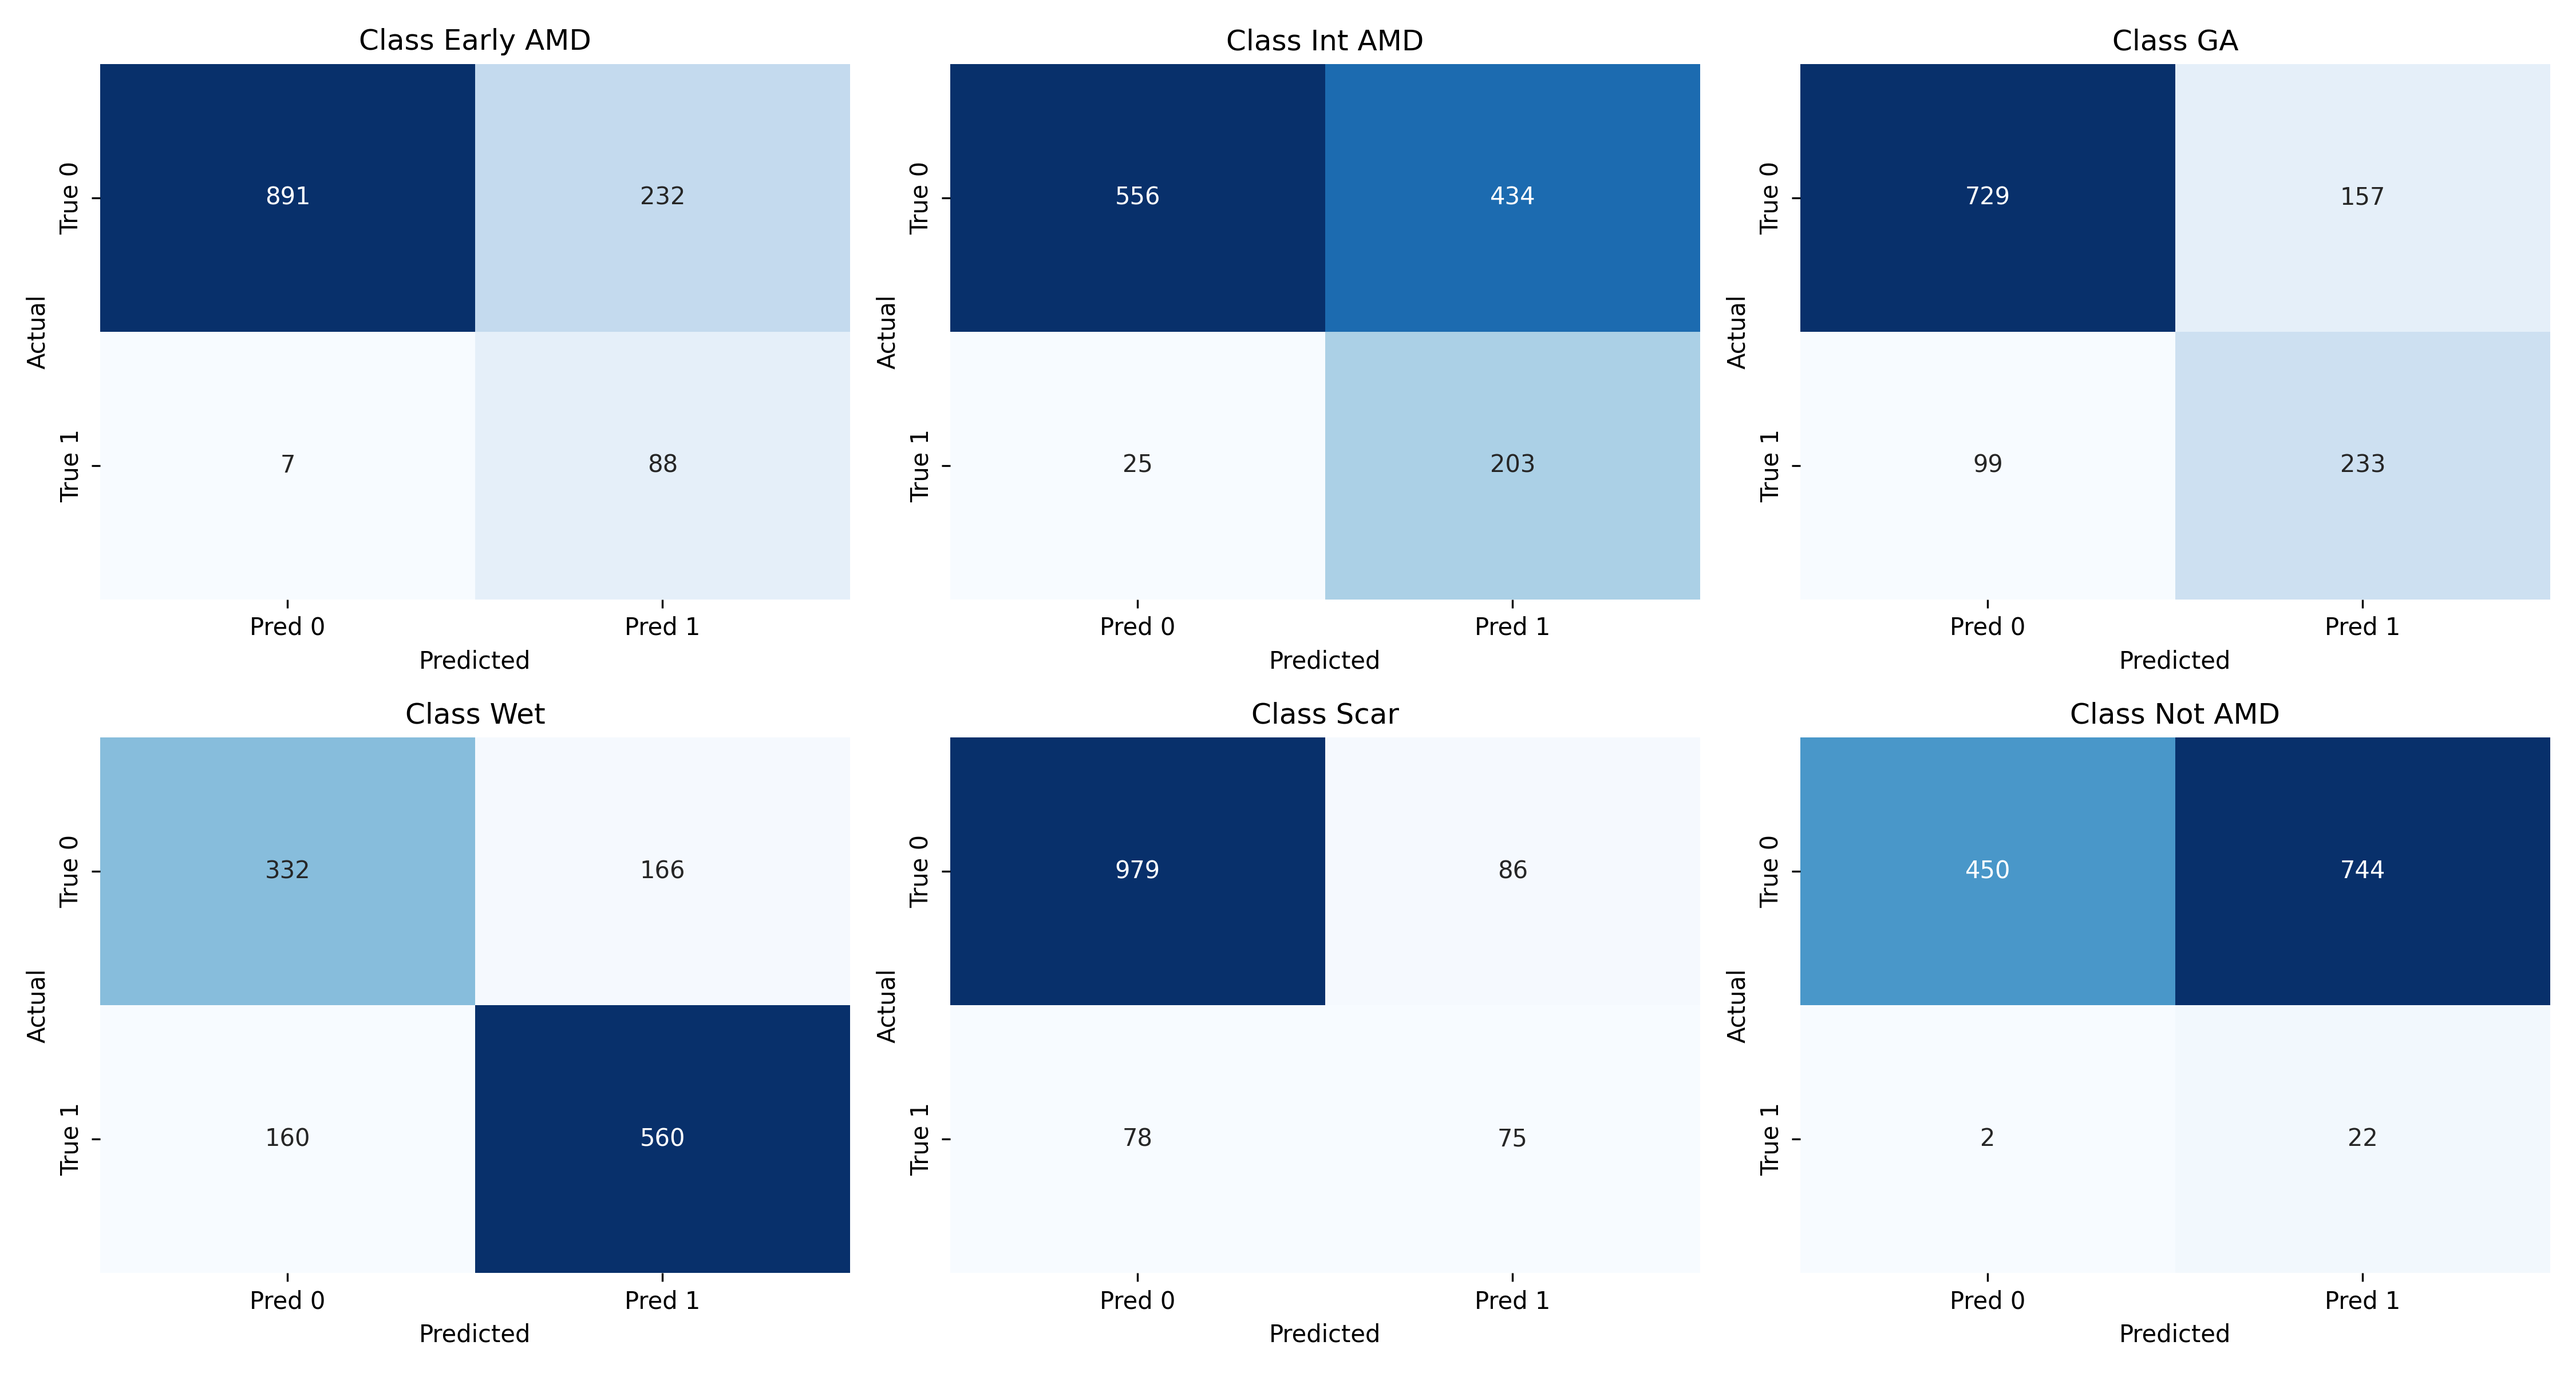
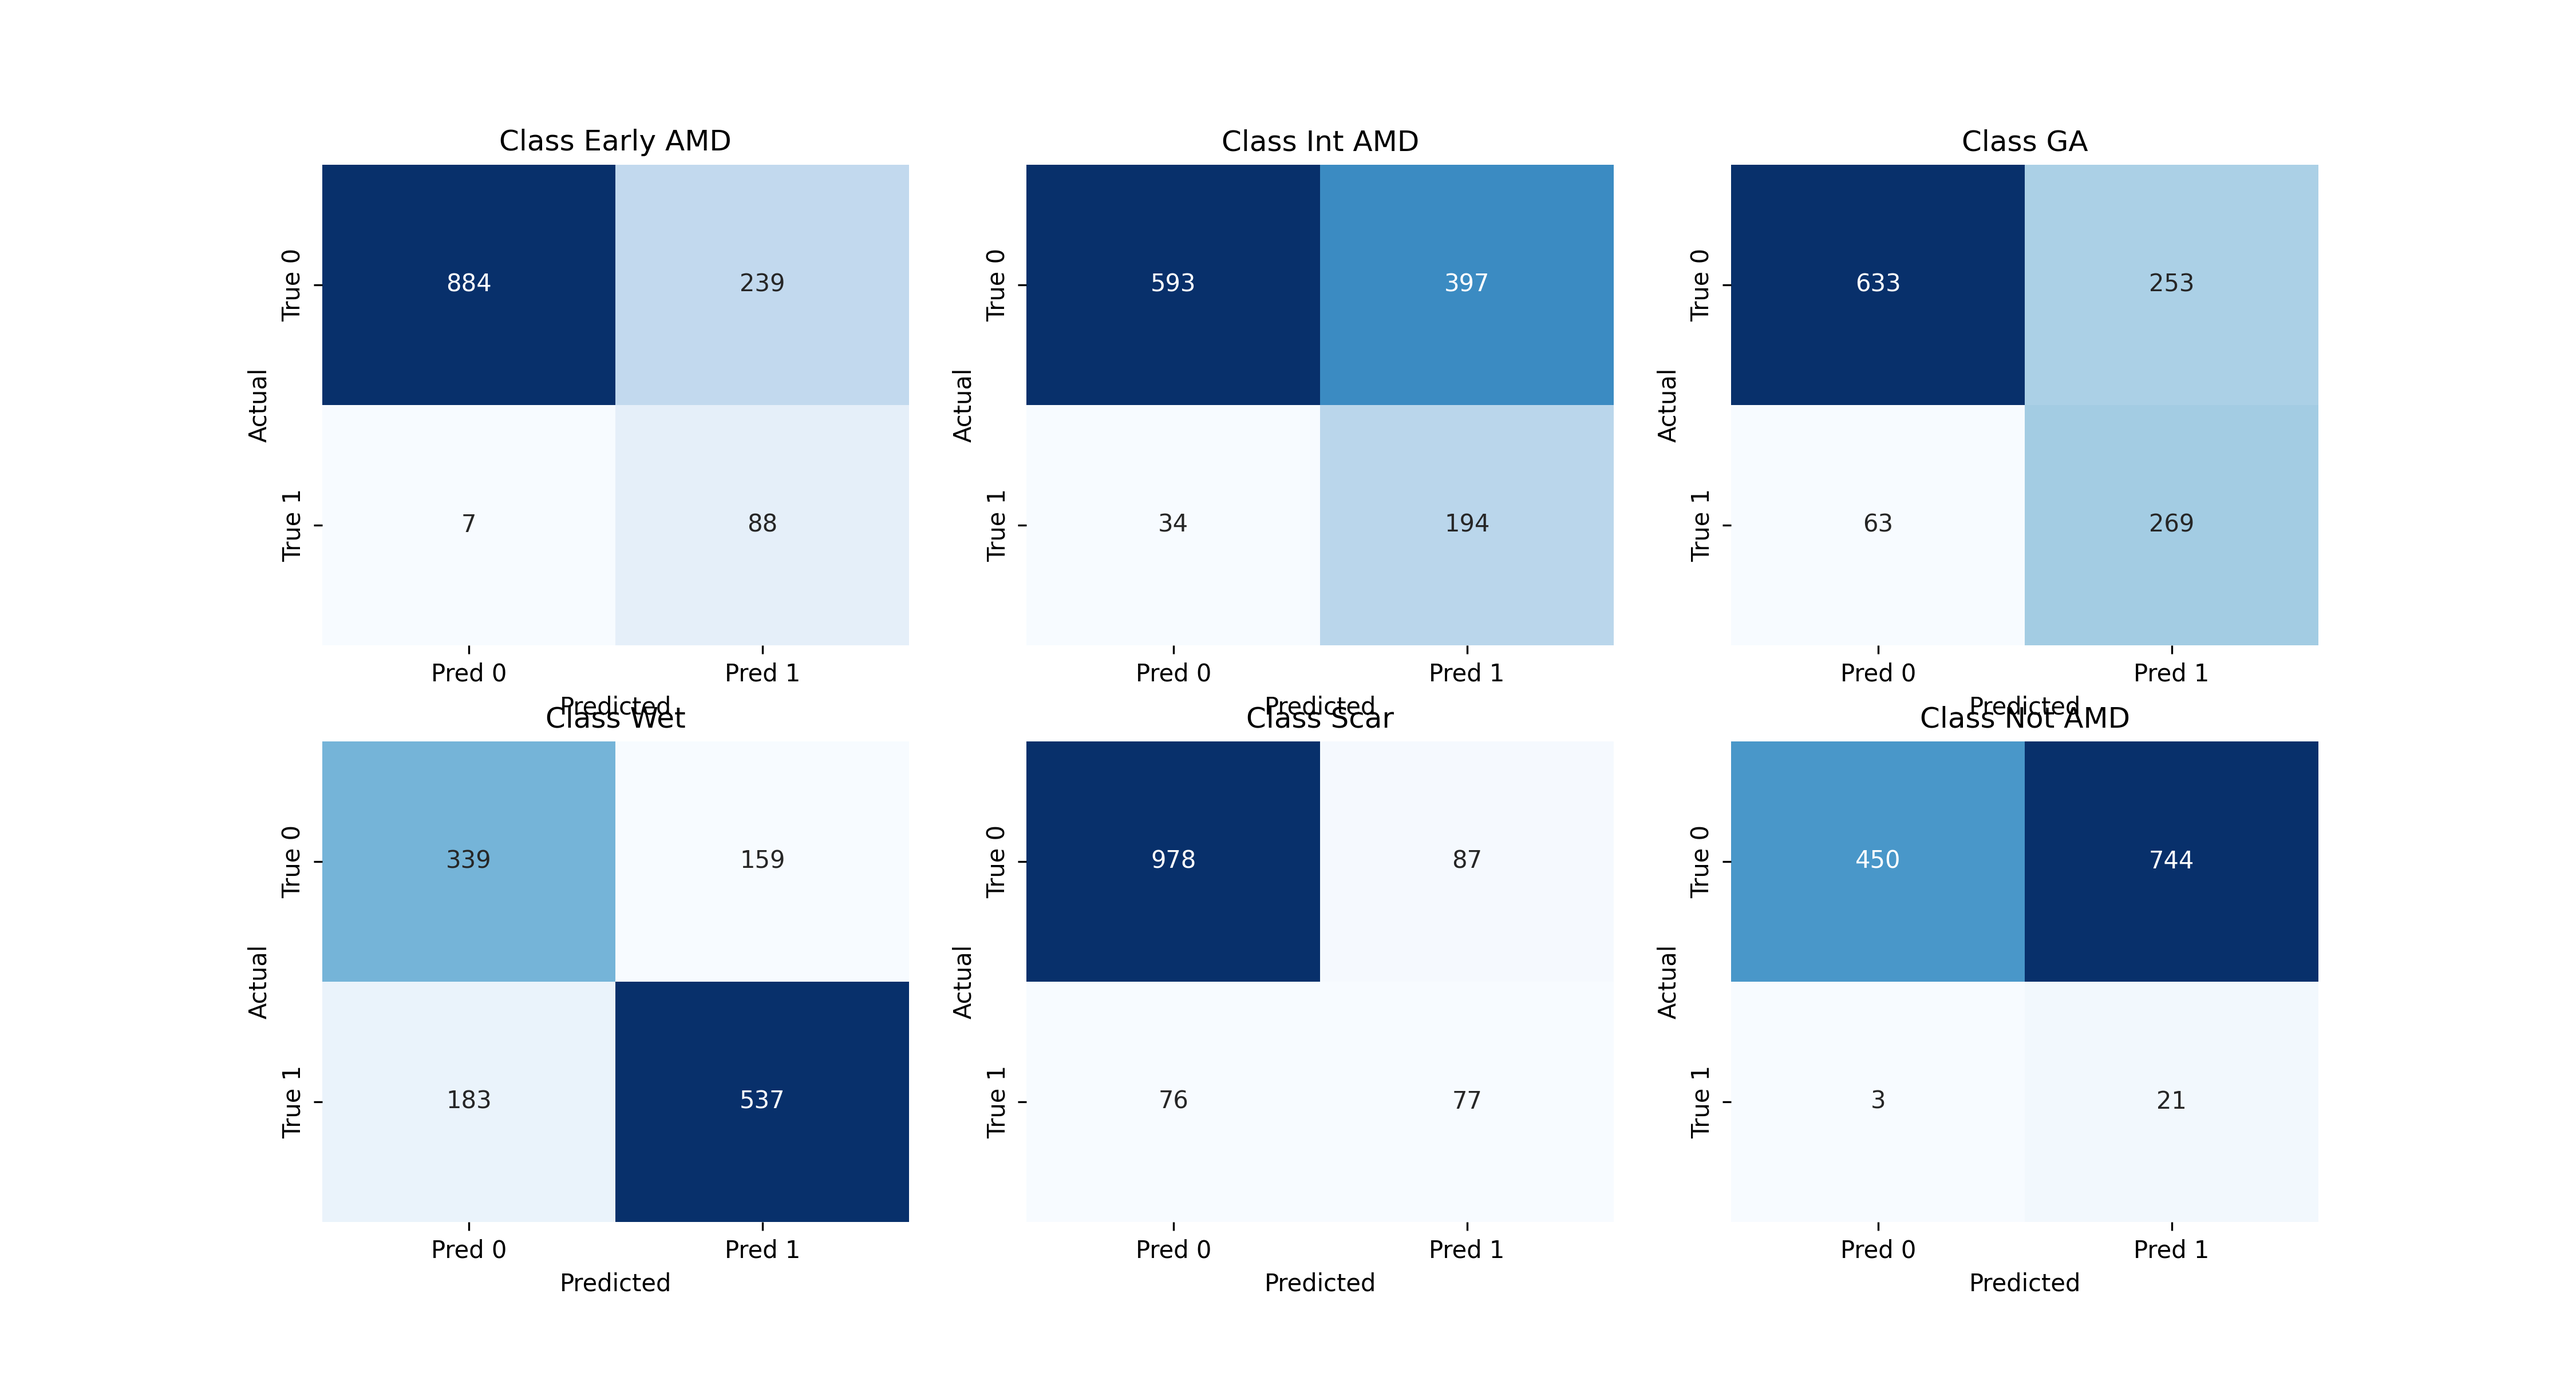
results

diff --git a/utils/evaluation_metrics.py b/utils/evaluation_metrics.py
@@ -104,28 +104,38 @@ def multilabel_confusionMatrixSoftmax(logits:np.ndarray,labels:np.ndarray,classe
     
     preds=np.argmax(logits,axis=-1)
     
-    labels_classes=[[key] for key in sorted(classes,key=lambda i:i[1])[0]]
-    
+    labels_classes=[[key[0]] for key in sorted(classes.items(),key=lambda i:i[1])]
+    print(labels_classes)
     comb=[]
     
-    multiLabel_classes=[labels[i] for i in range(len(multiLabel)) if multiLabel[i]==1]
+    multiLabel_classes=[labels_classes[i] for i in range(len(multiLabel)) if multiLabel[i]==1]
     
     multiLabel_encoded=[]
     
-    for c in multiLabel_classes:
-        encoded=np.zeros(len(multiLabel))
-        for i in c:
-            encoded[i]=1
-        multiLabel_encoded.append(encoded)
+    print(multiLabel_classes)
+
+
     
     
     for i in range(2,len(multiLabel)+1):
         comb.extend(combinations(multiLabel_classes,i))
     
+    print(comb)
+    for c in comb:
+        encoded=np.zeros(len(multiLabel))
+        for i in c:
+            encoded[classes[i[0]]]=1
+        multiLabel_encoded.append(encoded)
+
     labels_classes=labels_classes+comb
     
     y_true=[]
-    
+    one_hot_encoded=[]
+    for i in range(len(multiLabel)):
+        one_hot_encoded.append([1 if idx==i else 0 for idx in range(len(multiLabel))])
+    multiLabel_encoded.extend(one_hot_encoded)
+    print(multiLabel_encoded)
+    print(labels)
     for label in labels:
         for i,ls in enumerate(multiLabel_encoded):
             if (ls==label).all():
@@ -135,9 +145,10 @@ def multilabel_confusionMatrixSoftmax(logits:np.ndarray,labels:np.ndarray,classe
     y_true=np.array(y_true)
     
     print(y_true.shape,preds.shape)
-    cm=confusion_matrix(y_true,preds,labels=labels_classes)
+    labels_classes=[str(v) for v in labels_classes]
+    cm=confusion_matrix(y_true,preds,labels=[i for i in range(len(labels_classes))])
     
-    return cm
+    return cm,labels_classes
         
     
     
@@ -152,6 +163,6 @@ if __name__=="__main__":
     # y_true=np.random.randint(0,2,(100,6))
     # print(np.unique(y_true))
     # d={'Early AMD':0,'Int AMD':1,'GA':2,'Wet':3,'Scar':4,"Not AMD":5}
-    # m=[0,0,1,1,1,0]
+    m=[0,0,1,1,1,0]
 
     # print(multilabel_confusionMatrixSoftmax(logits,y_true,d,m))

diff --git a/evaluating_classifier.py b/evaluating_classifier.py
@@ -19,7 +19,7 @@ from sklearn.model_selection import KFold
 from hooks.batch_hook import create_hook,batchnorm_stats
 from utils.make_plots import get_batch_stats_plot
 import pandas as pd
-from utils.evaluation_metrics import rocPlotter
+from utils.evaluation_metrics import rocPlotter,multilabel_confusionMatrixSoftmax
 
 def evaluate_dataset(json_path:str,device:torch.device,model_path:str,excel_path:str,transform,batch_size:int,num_workers:int,timeout:int,save_path:str,data:str,save_misclassified:bool,excel_save_path:str)->None:
     with open(json_path,'r') as file:
@@ -124,8 +124,21 @@ def evaluate_dataset(json_path:str,device:torch.device,model_path:str,excel_path
         plt.xlabel('Predicted')
         plt.ylabel('Actual')
 
-    plt.tight_layout()
+    # plt.tight_layout()
     plt.savefig(save_path, dpi=300)
+    plt.clf()
+
+    cm,class_labels=multilabel_confusionMatrixSoftmax(LOGITS,labels,class_dict,[0,0,1,1,1,0])
+    # print(cm)
+    sns.heatmap(cm,
+                        annot=True,
+                        fmt='d',
+                        cmap='Blues',
+                        cbar=False,
+                        xticklabels=class_labels[:n_classes],
+                        yticklabels=class_labels)
+    plt.savefig("multilabel_conf.png")
+
     # plt.show()
     
     if save_misclassified:
@@ -164,6 +177,6 @@ if __name__=="__main__":
     assert data=='train' or data=='test',"the only permitted values of data are train or test"
     os.makedirs(results_dir,exist_ok=True)
     save_file= model_path.split(os.sep)[0]+"_"+model_path.split(os.sep)[-2]+"_"+model_path.split(os.sep)[-1]+f'confusion_matrix_{data}_set_{json_path.split(os.sep)[-1].split(".")[0]}.png'
-    print(save_file)
+    # print(save_file)
 
     evaluate_dataset(json_path,device,model_path,excel_path,transform,batch_size,num_workers,timeout,results_dir+os.sep+save_file,data,save_misclassified_data,save_excel_path)
